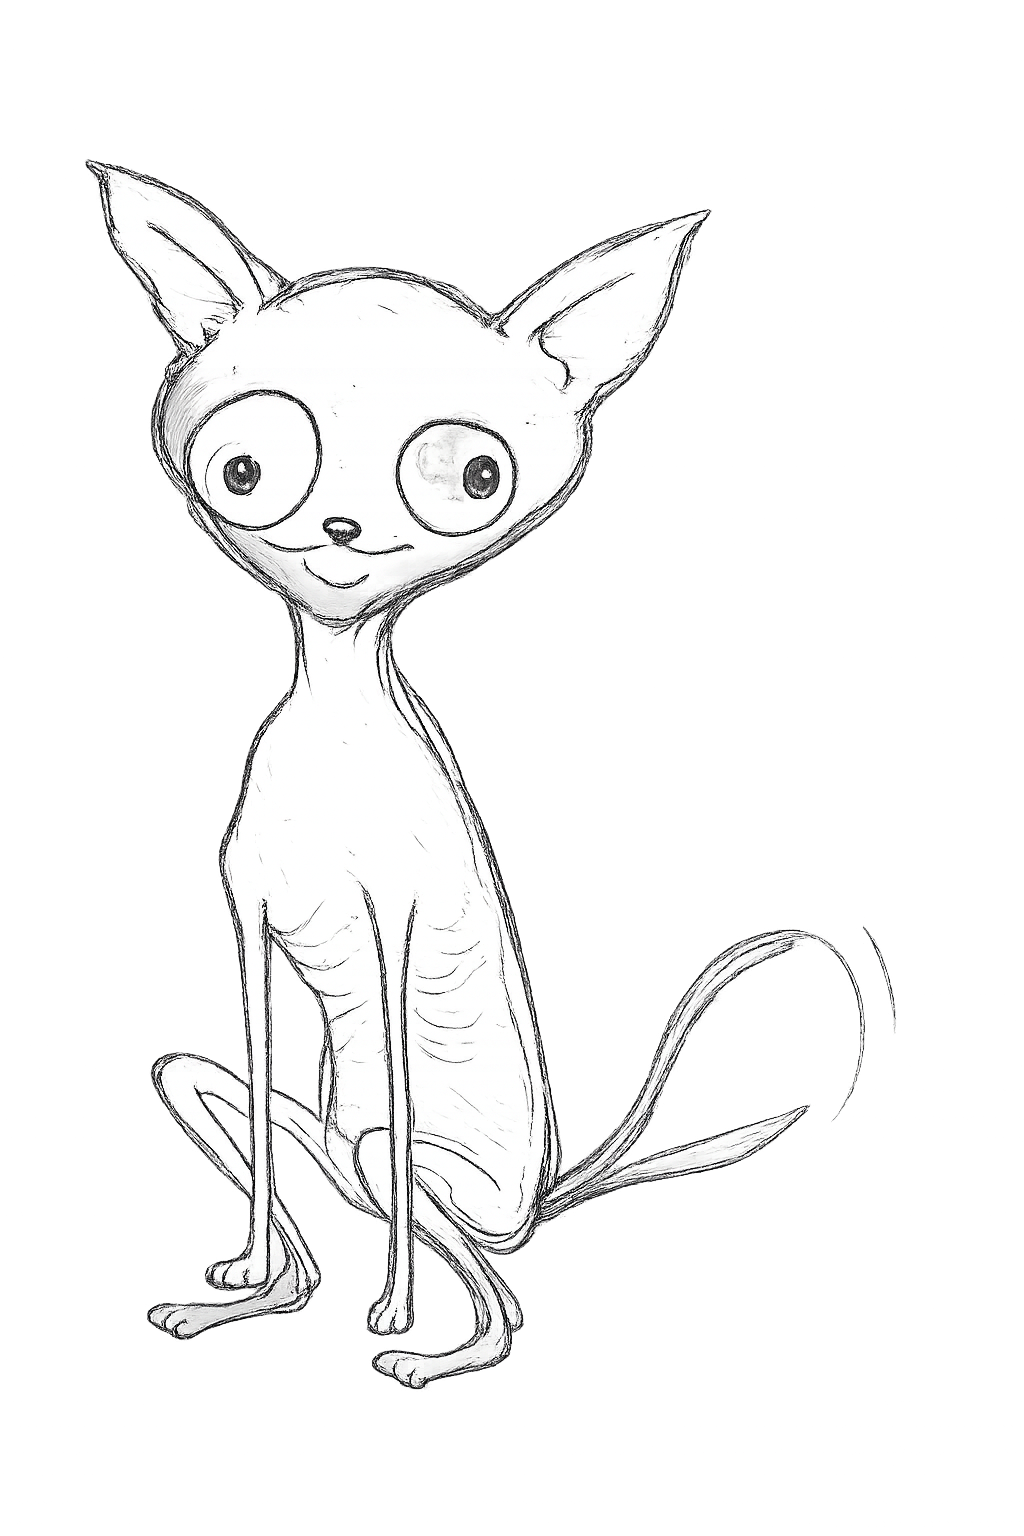
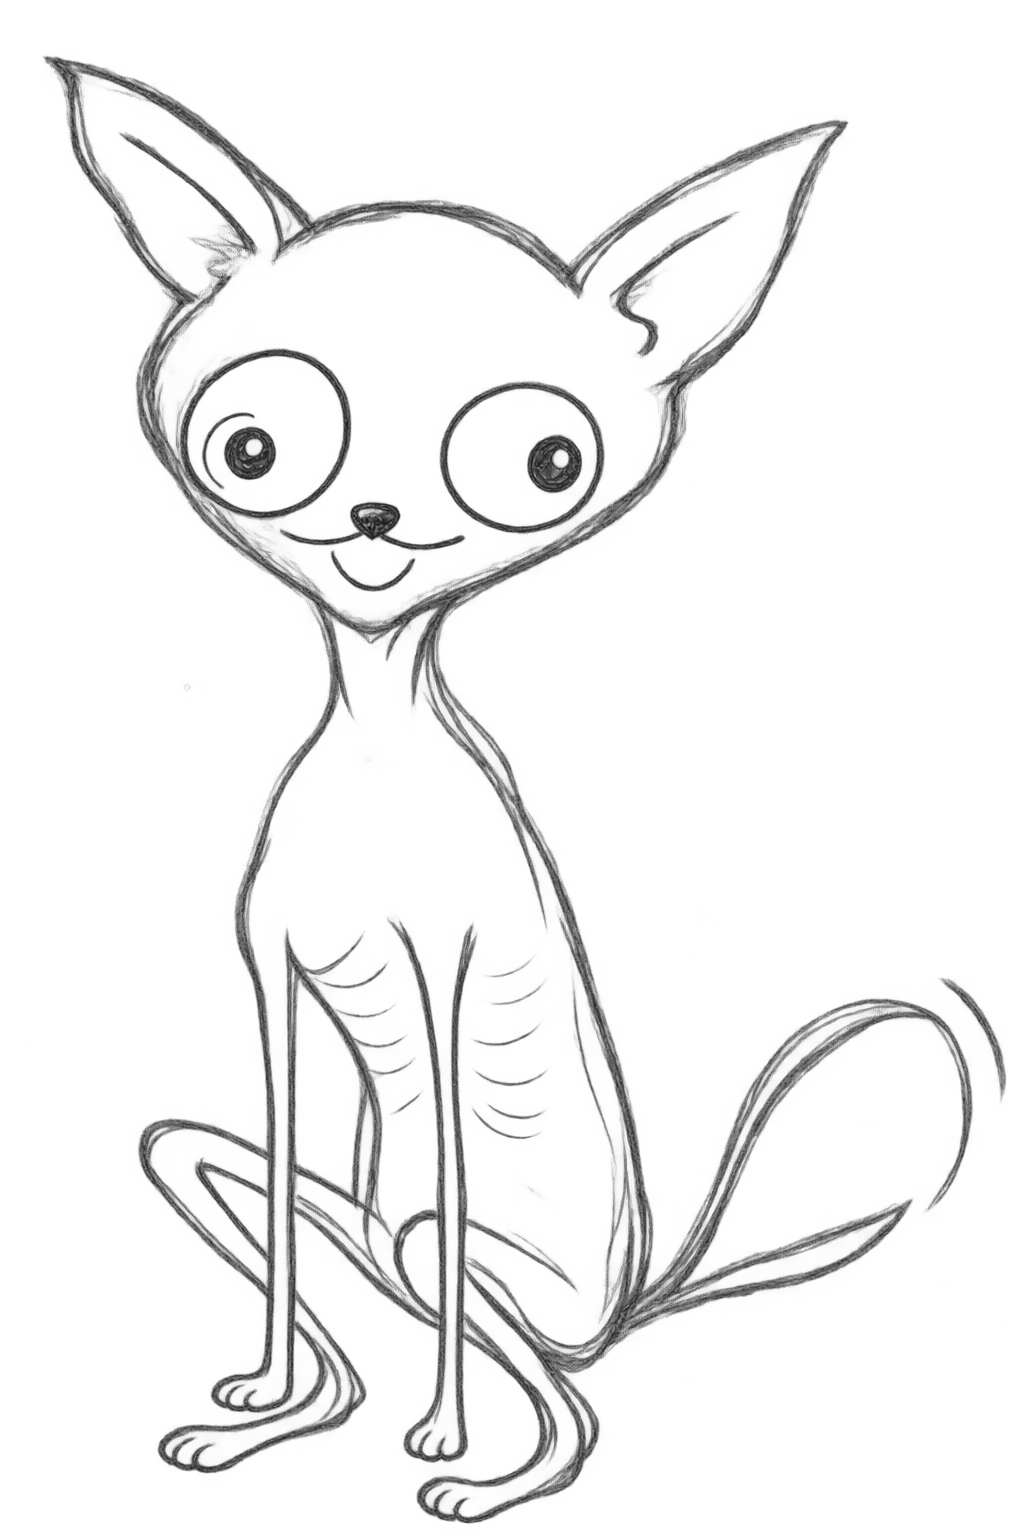
キャラ画像を差し替え、村人に新キャラ（ballcat）を追加する
人狼(chiwawa)と村人(ragdoll/scotish)の絵を新しいものに差し替え、村人に
ballcat を追加した。村人は3種から4種になり、プレイヤーごとの振り分けの
バリエーションが増える。

原本は raw/ に置き、slice-sketch.py の ROLE_ART に登録して生成した。
sketchAssets.ts は自動生成なので手では触っていない。

差し替えでの寸法変化は下記のとおり。列幅の制約になるのは変わらず pome
(比0.989)なので、勝敗発表のカード枠に収まる計算は変わらない。
  chiwawa 443x640 -> 424x640
  ragdoll 445x640 -> 431x640
  scotish 446x640 -> 425x640
  ballcat            446x640 (新規)

あわせて Capacitor 時代の名残である assets/icon-512.png と assets/icon.svg
を削除した。どちらも参照0件で、app.json が使うのは icon.png と
adaptive-icon.png だけ。icon.svg は紫地に狼絵文字の仮アイコンだった。

Changed region(s): [[0.0312, 0.0312, 1.0, 1.0], [0.9062, 0.75, 0.9375, 0.7812], [0.7188, 0.1875, 0.75, 0.2188]]

diff --git a/src/theme/sketchAssets.ts b/src/theme/sketchAssets.ts
@@ -51,6 +51,7 @@ export const sketch = {
   resultMakeinu: require("../../assets/sketch/result-makeinu.png"),
   resultVillagerWin: require("../../assets/sketch/result-villager-win.png"),
   resultWolfWin: require("../../assets/sketch/result-wolf-win.png"),
+  roleVillagerBallcat: require("../../assets/sketch/role-villager-ballcat.png"),
   roleVillagerPome: require("../../assets/sketch/role-villager-pome.png"),
   roleVillagerRagdoll: require("../../assets/sketch/role-villager-ragdoll.png"),
   roleVillagerScotish: require("../../assets/sketch/role-villager-scotish.png"),
@@ -183,11 +184,12 @@ export type SketchSliceName = keyof typeof sketchSlices;
  */
 export const sketchRoleArt = {
   "人狼": [
-    { source: sketch.roleWolfChiwawa, width: 443, height: 640 },
+    { source: sketch.roleWolfChiwawa, width: 424, height: 640 },
   ],
   "村人": [
     { source: sketch.roleVillagerPome, width: 633, height: 640 },
-    { source: sketch.roleVillagerRagdoll, width: 445, height: 640 },
-    { source: sketch.roleVillagerScotish, width: 446, height: 640 },
+    { source: sketch.roleVillagerRagdoll, width: 431, height: 640 },
+    { source: sketch.roleVillagerScotish, width: 425, height: 640 },
+    { source: sketch.roleVillagerBallcat, width: 446, height: 640 },
   ],
 } as const;

diff --git a/scripts/slice-sketch.py b/scripts/slice-sketch.py
@@ -252,6 +252,7 @@ ROLE_ART: dict[str, list[dict]] = {
         {"file": "pome.png", "name": "role-villager-pome"},
         {"file": "ragdoll.png", "name": "role-villager-ragdoll"},
         {"file": "scotish.png", "name": "role-villager-scotish"},
+        {"file": "ball_cat.png", "name": "role-villager-ballcat"},
     ],
 }
 
